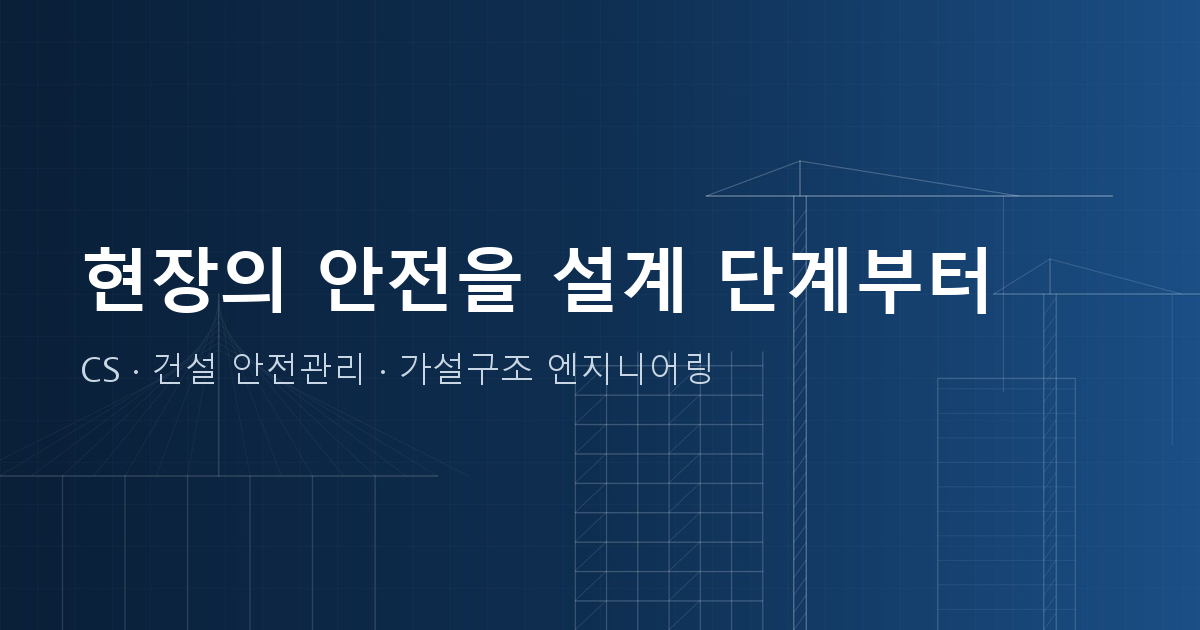
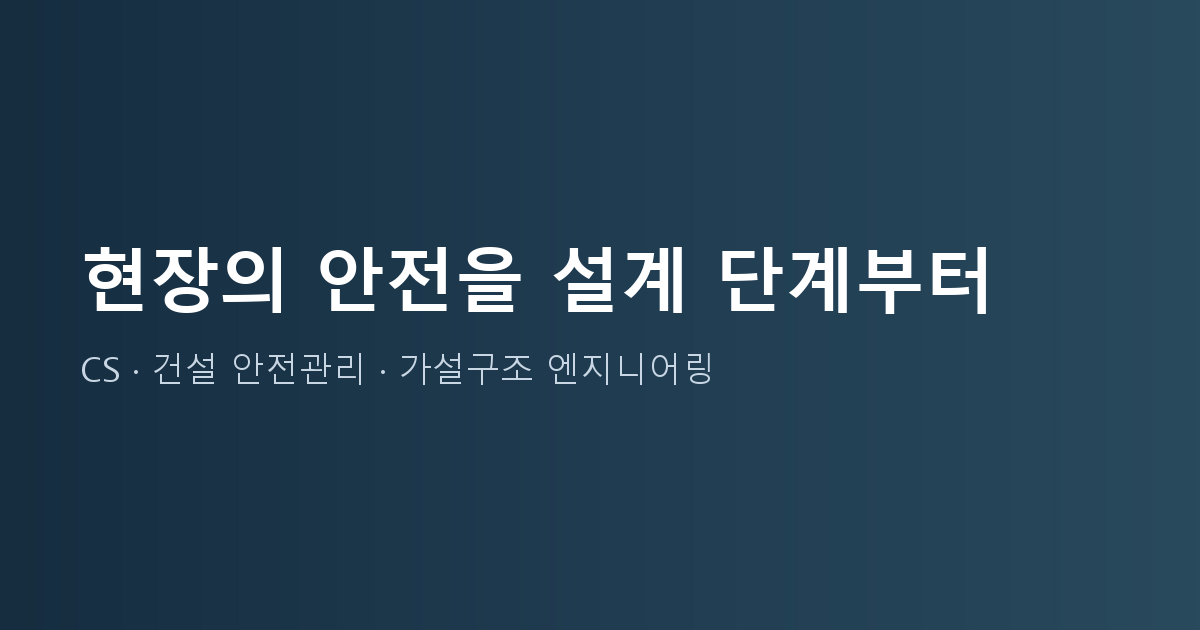
가설구조물 구성도 및 웹사이트 배경 디자인 개선

diff --git a/css/public.css b/css/public.css
@@ -1,6 +1,6 @@
 /* 홍보사이트 전용 — site.css 위에 덧씀 */
-.nav { background: transparent; border-bottom: 1px solid rgba(255,255,255,.14); position: absolute; left: 0; right: 0; top: 0; backdrop-filter: none; }
-.nav .brand, .nav .menu > li > a { color: #fff; }
+.nav { background: #fff; border-bottom: 1px solid #e1e7ec; position: fixed; left: 0; right: 0; top: 0; backdrop-filter: none; }
+.nav .brand, .nav .menu > li > a { color: #193448; }
 .nav.solid, .nav:hover, .nav.open { background: #fff; position: fixed; border-color: var(--line); }
 .nav.solid .brand, .nav:hover .brand, .nav.open .brand, .nav.solid .menu > li > a, .nav:hover .menu > li > a, .nav.open .menu > li > a { color: var(--ink); }
 body.sub .nav { position: fixed; }
@@ -20,13 +20,19 @@ body.sub .nav { position: fixed; }
 .burger span::before { top: -7px; } .burger span::after { top: 7px; }
 
 /* 메인 히어로 */
-.hero-main { position: relative; min-height: 100vh; min-height: 100svh; display: grid; align-items: center; color: #fff;
-  background: #0f2f52 center / cover no-repeat; }
-.hero-main::before { content: ""; position: absolute; inset: 0; background: linear-gradient(90deg, rgba(10,31,56,.88) 0%, rgba(10,31,56,.35) 70%); }
-.hero-main .wrap { position: relative; padding-top: 90px; }
+.hero-main { position: relative; min-height: 700px; display: grid; align-items: center; color: #193448;
+  background: #f3f6f8 !important; border-bottom: 1px solid #dfe6ec; }
+.hero-main::before { content: ""; position: absolute; right: 0; top: 68px; bottom: 0; width: 28%; background: #e9eff3; border-left: 1px solid #dce5ec; }
+.hero-main .wrap { position: relative; padding-top: 105px; padding-bottom: 110px; }
 .hero-main h1 { font-size: 52px; line-height: 1.2; letter-spacing: -.035em; margin: 16px 0 20px; font-weight: 800; }
-.hero-main p { font-size: 18px; color: #c9d6e4; max-width: 600px; margin: 0 0 34px; }
-.hero-main .scroll { position: absolute; left: 50%; bottom: 28px; transform: translateX(-50%); font-size: 12px; letter-spacing: .2em; color: #9fb4ca; }
+.hero-main p { font-size: 18px; color: #52677b; max-width: 650px; margin: 0 0 34px; }
+.hero-main .scroll { display: none; }
+.hero-main .eyebrow { color: #496b84; }
+.hero-main .btn-amber { background: #193f5a; border-color: #193f5a; color: #fff; }
+.hero-main .btn-ghost { color: #193f5a; border-color: #aabcc9; background: transparent; }
+.structure-figure { margin: 0; width: 100%; }
+.calc-intro .structure-figure img { display: block; width: 100%; height: auto; border: 1px solid #e1e7ec; border-radius: 16px; }
+.sec-soft { background: #f5f7f9; }
 
 /* 3대 업무 바로가기 */
 .quick { display: grid; grid-template-columns: repeat(3, 1fr); margin-top: -80px; position: relative; z-index: 2; box-shadow: var(--shadow); border-radius: var(--radius); overflow: hidden; }
@@ -122,6 +128,8 @@ footer .finfo { margin-top: 10px; line-height: 1.8; }
   .quick, .links3, .contact-cards { grid-template-columns: 1fr; }
   .quick { margin-top: -40px; }
   .hero-main h1 { font-size: 34px; }
+  .hero-main { min-height: 620px; }
+  .hero-main::before { width: 12%; }
   .subvisual { height: 260px; } .subvisual h1 { font-size: 28px; }
   .flow > div::after { display: none !important; }
   .timeline { margin-left: 60px; }

diff --git a/404.html b/404.html
@@ -41,7 +41,7 @@
   <li>KDS 21 50 00 / 21 60 00 / 14 30 10 현행 기준식으로 부재별 검토</li>
   <li>높이 기준 초과 시 3차원 구조해석으로 검증</li><li>요약서 · 계산서 · 설치 상세를 갖춘 심의·감리 제출 형식</li></ul>
   <a class="btn btn-primary" href="temporary-structure.html">자세히 보기 →</a></div>
-  <img src="img/calc-preview.png" alt="시스템 동바리 설치도 예시"></div></section>
+  <figure class="structure-figure"><img src="img/shoring-overview.svg" alt="시스템 동바리 정면 개념도: 거푸집, 장선, 멍에, 조절잭, 수직재, 수평재, 가새재, 받침부" width="1000" height="820" loading="lazy"></figure></div></section>
 <section class="sec-soft"><div class="wrap links3">
   <a href="greeting.html" style="background-image:url(img/sub_about.jpg)"><b>회사소개</b><p>CS를 소개합니다.</p></a>
   <a href="notice.html" style="background-image:url(img/sub_community.jpg)"><b>CS 소식</b><p>CS 홈페이지를 열었습니다</p></a>

diff --git a/index.html b/index.html
@@ -41,7 +41,7 @@
   <li>KDS 21 50 00 / 21 60 00 / 14 30 10 현행 기준식으로 부재별 검토</li>
   <li>높이 기준 초과 시 3차원 구조해석으로 검증</li><li>요약서 · 계산서 · 설치 상세를 갖춘 심의·감리 제출 형식</li></ul>
   <a class="btn btn-primary" href="temporary-structure.html">자세히 보기 →</a></div>
-  <img src="img/calc-preview.png" alt="시스템 동바리 설치도 예시"></div></section>
+  <figure class="structure-figure"><img src="img/shoring-overview.svg" alt="시스템 동바리 정면 개념도: 거푸집, 장선, 멍에, 조절잭, 수직재, 수평재, 가새재, 받침부" width="1000" height="820" loading="lazy"></figure></div></section>
 <section class="sec-soft"><div class="wrap links3">
   <a href="greeting.html" style="background-image:url(img/sub_about.jpg)"><b>회사소개</b><p>CS를 소개합니다.</p></a>
   <a href="notice.html" style="background-image:url(img/sub_community.jpg)"><b>CS 소식</b><p>CS 홈페이지를 열었습니다</p></a>
